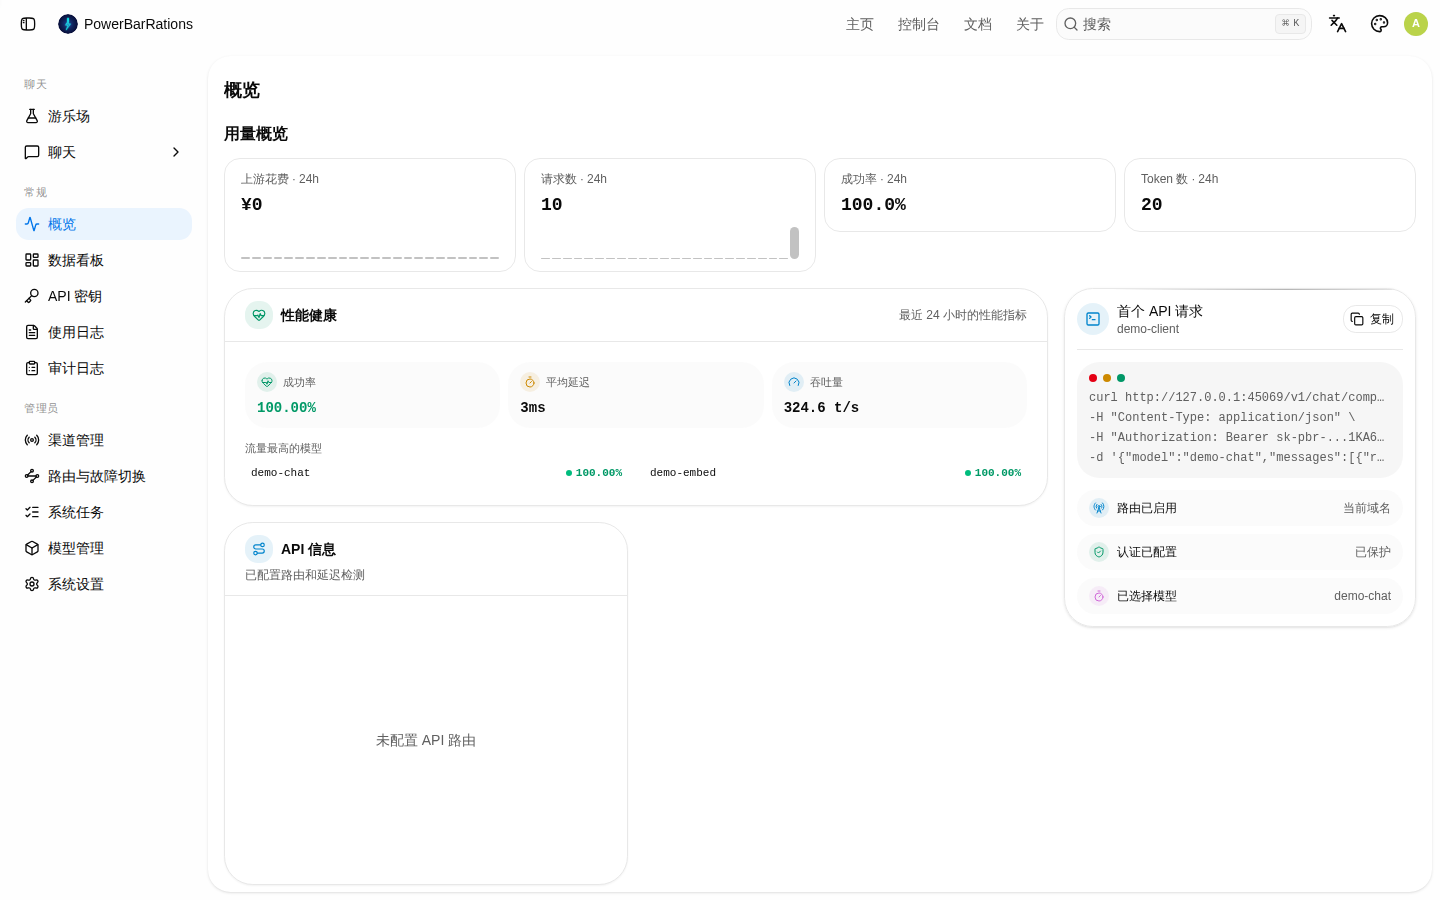
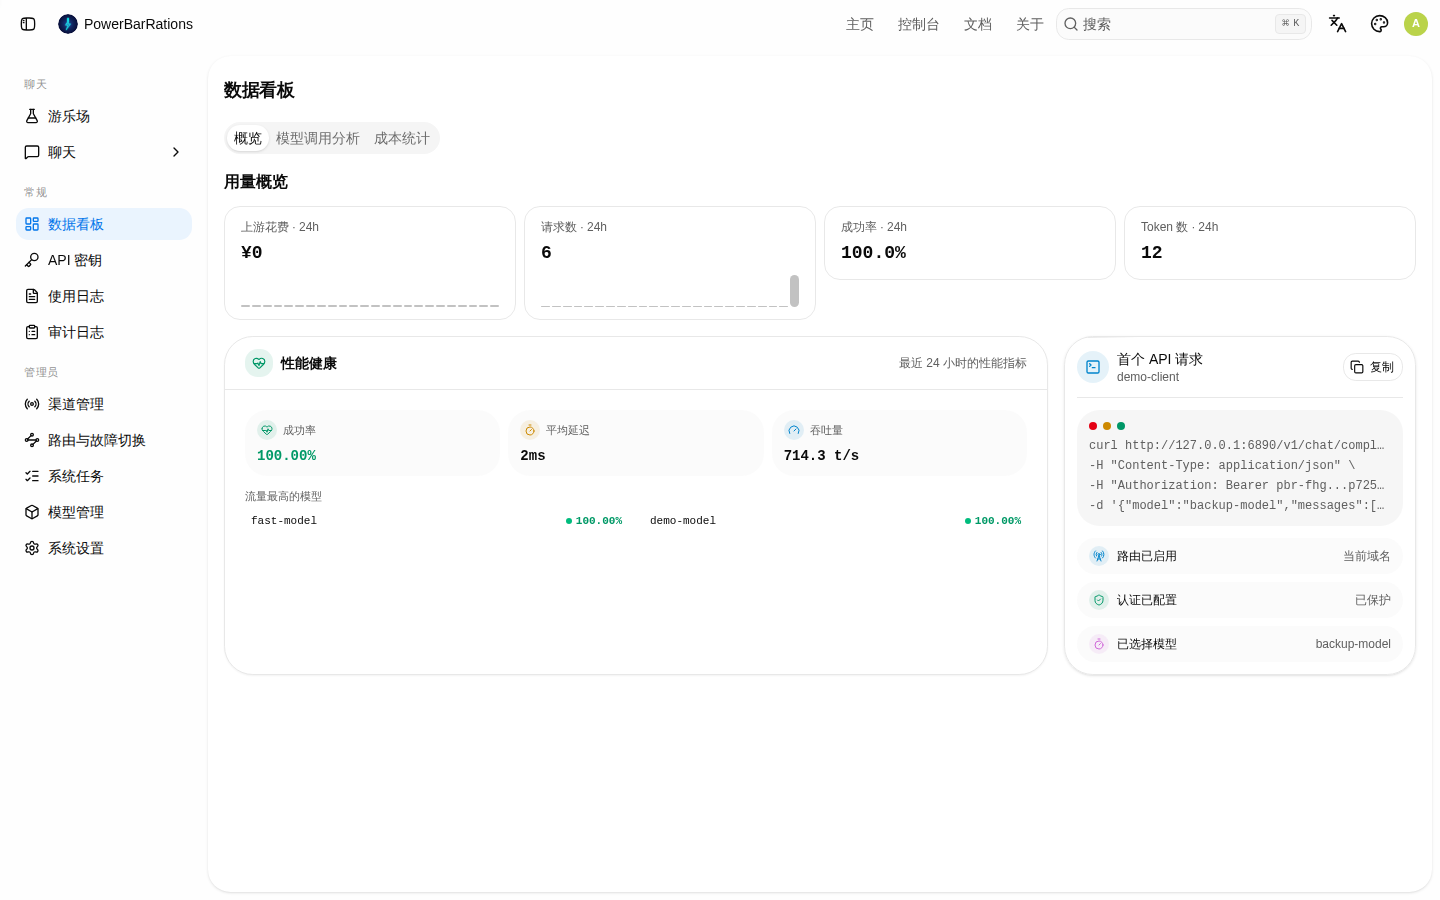
docs: 同步 CHANGELOG/README 与界面截图（ADR 0007、看板收敛、探测去重）
- CHANGELOG：补记车道自由编排、模型调用分析、路由页只列真实车道（ADR 0007）、
  数据看板单一入口、成员默认上游按所选模型查映射、探测入口去重，以及删除
  API 信息面板与超范围死代码。
- README：修正 model_mapping 说明——控制台加入成员时以「所选模型 m」为键解析并
  写入成员上游真名（池化车道也命中），运行期回落仍以路由键（车道名）查表。
- docs/screenshots：用当前构建重新生成（路由页卡片网格、数据看板单一入口、
  有真实调用数据），替换 09-17 的过时截图。

diff --git a/CHANGELOG.md b/CHANGELOG.md
@@ -10,8 +10,10 @@
 - 故障转移与容错：成员顺序故障转移、冷却、亲和、熔断三态与半开复通、429 与硬故障分类。
 - 管理面完整 HTTP API + OpenAPI：`/api/v1/{channels,lanes,routes,keys,logs,stats,export,import,system/options}`。
 - 控制台：渠道管理、模型管理（按名推断并自动采用图标）、路由与故障切换、系统任务、令牌、用量与成本看板、系统设置。
-- 上游模型探测：渠道编辑器内手动探测，探测结果用居中选择弹窗按需合并。
+- 上游模型探测：渠道编辑器内手动探测（**唯一入口**），探测结果用居中选择弹窗按需合并；已保存渠道复用服务端已存密钥。
 - 成本视图：按渠道 x 模型的请求数、token、成功率与上游折算花费（元）。
+- **车道成员自由编排**（ADR 0006）：成员可任选任意启用渠道的任意已声明模型，可跨渠道跨模型、无需同名、同一渠道可多次出现；`/routes` 以卡片网格展示车道、运行态与成员顺序。
+- **模型调用分析**：按模型的调用次数 / 成功率 / Token / 上游花费汇总，默认按调用次数倒序；成本统计按上游花费倒序。
 - CLI：`pbr auth reset`。
 
 ### Changed
@@ -20,6 +22,10 @@
 - **管理面响应信封统一**（api-spec §2/§3）：成功一律裸资源（列表 `{items,next_cursor}`、动作类 `{changed}`/`{deleted}` 等语义化最小对象），失败一律 `{error:{code,message,hint,details?}}` 并带真实 HTTP 状态码；不再有 `{success,message,data}` 包装与"200 承载业务失败"。稳定契约端点与控制台内部端点共用同一信封。
 - **运维端点按名寻址**：`channels/batch/{status,tag}` 接受 `channels:[渠道名]`（`ids` 仍兼容，二者只能给一个）；`model-catalog/batch-delete` 接受 `models:[模型名]`；`channels/batch/copy` 改为 body `{channel}`。修复 `batch/copy` 与 `batch/fetch-models` 此前因参数不一致而不可用的问题。
 - **运维端点路由与响应策略同表声明**（design-v1 §16.3）：新增 `internal/api/ops_routes.go` 与 `internal/apiresp`，守卫测试强制每条已注册管理路由都有信封覆盖。
+- **路由页只列真实车道**（ADR 0007）：`/routes` 只渲染 `source ∈ {explicit, disabled}` 的车道，渠道声明但未配车道的路由键不再以卡片出现——删车道即卡片消失，渠道声明与车道彻底分列；新建车道一律手填路由键。
+- **数据看板收敛为单一入口**：侧边栏只保留一个「数据看板」（落地 `/dashboard/overview`），概览 / 模型调用分析 / 成本统计为页内 Tab。
+- **成员默认上游真名按所选模型查渠道映射**（ADR 0006 §5）：从「渠道 × 模型 m」加入成员时以 m 为键解析 `model_mapping`，池化车道（车道名 ≠ m）也能命中映射。
+- 控制台探测入口去重：移除与「探测上游模型」重复的「获取模型列表」入口（其在已保存渠道上会发无密钥草稿探测而必然 401）。
 
 ### Security
 - 客户端密钥由服务端随机生成并明文入库，管理 API 可随时回读复制；鉴权仍走 `sha256` 哈希索引。管理密钥由登录口令派生、服务端只存其哈希、不落明文。
@@ -30,5 +36,7 @@
 ### Removed
 - 删除死代码 `createRootAccountIfNeed`（`root`/`123456` 默认账号）与内部施工文档。
 - 移除旧 `new-api`/`octopus` 两层网关的迁移机制：`internal/legacy` 包、`pbr migrate` 子命令与 `MIGRATION.md`。新实例只使用新建的 PBR 数据库（design-v1 §11）。
+- 物理删除 API 信息面板全链（概览面板、系统设置「API 地址」分节、`console_setting.api_info` 与 `/api/status` 的 `api_info` 字段）。
+- 移除超范围死代码：计费执行链、认证基座残留、旧选路链与渠道 pin、渠道亲和机制、任务插件与厂商营销文案等。
 
 [Unreleased]: https://github.com/zzyyyds88/PowerBarRations/commits/main

diff --git a/README.md b/README.md
@@ -165,8 +165,10 @@ docker run -d --name pbr -p 5700:5700 \
 - 手动新建：在「路由与故障切换」页点「新建车道」，输入路由键并从左侧「渠道 → 模型」选择器挑选成员；也可按 §2.2 用 `PUT /api/v1/lanes/{model}` 建/改。
 - **成员自由编排**（[ADR 0006](docs/adr/0006-lane-free-member-composition.md)）：成员可来自**任意渠道的任意模型**，无需同名，**同一渠道可在一条车道里出现多次**（去重键 = `(渠道, 上游真名)`）。路由键可任意命名，不要求任何渠道声明过它。
 - **渠道没有优先级/权重**（已物理删除）：路由顺序只由车道的成员顺序决定，在侧边栏独立页「路由与故障切换」（`/routes`）里用拖拽或上移/下移人工排定。
-- 上游命名与路由键不一致时，在**渠道**上配 `model_mapping`（路由键 → 上游真名），
-  配置一次即对该渠道的所有车道成员生效；成员级 `upstream_model` 可再覆盖它。
+- 上游命名与路由键不一致时，在**渠道**上配 `model_mapping`（路由键 → 上游真名）。
+  在路由页从「渠道 × 模型 m」加入成员时，控制台会**以 m 为键**解析该映射并写入成员上游真名
+  （所以池化车道——车道名 ≠ m——也能命中）；成员级 `upstream_model` 可再手动覆盖。
+  运行期回落仍以**路由键（车道名）**查表：成员上游留空且车道名等于映射键时才走映射。
 - 没有任何渠道声明该模型 → 同样是 `503 No available channel for model <X>`，
   与"上游全挂"**同形**，下游无需分支。
 - 请求名带思考后缀（如 `model-1-thinking`）时，原文未命中会按基座既有规则归一化再匹配一次，
